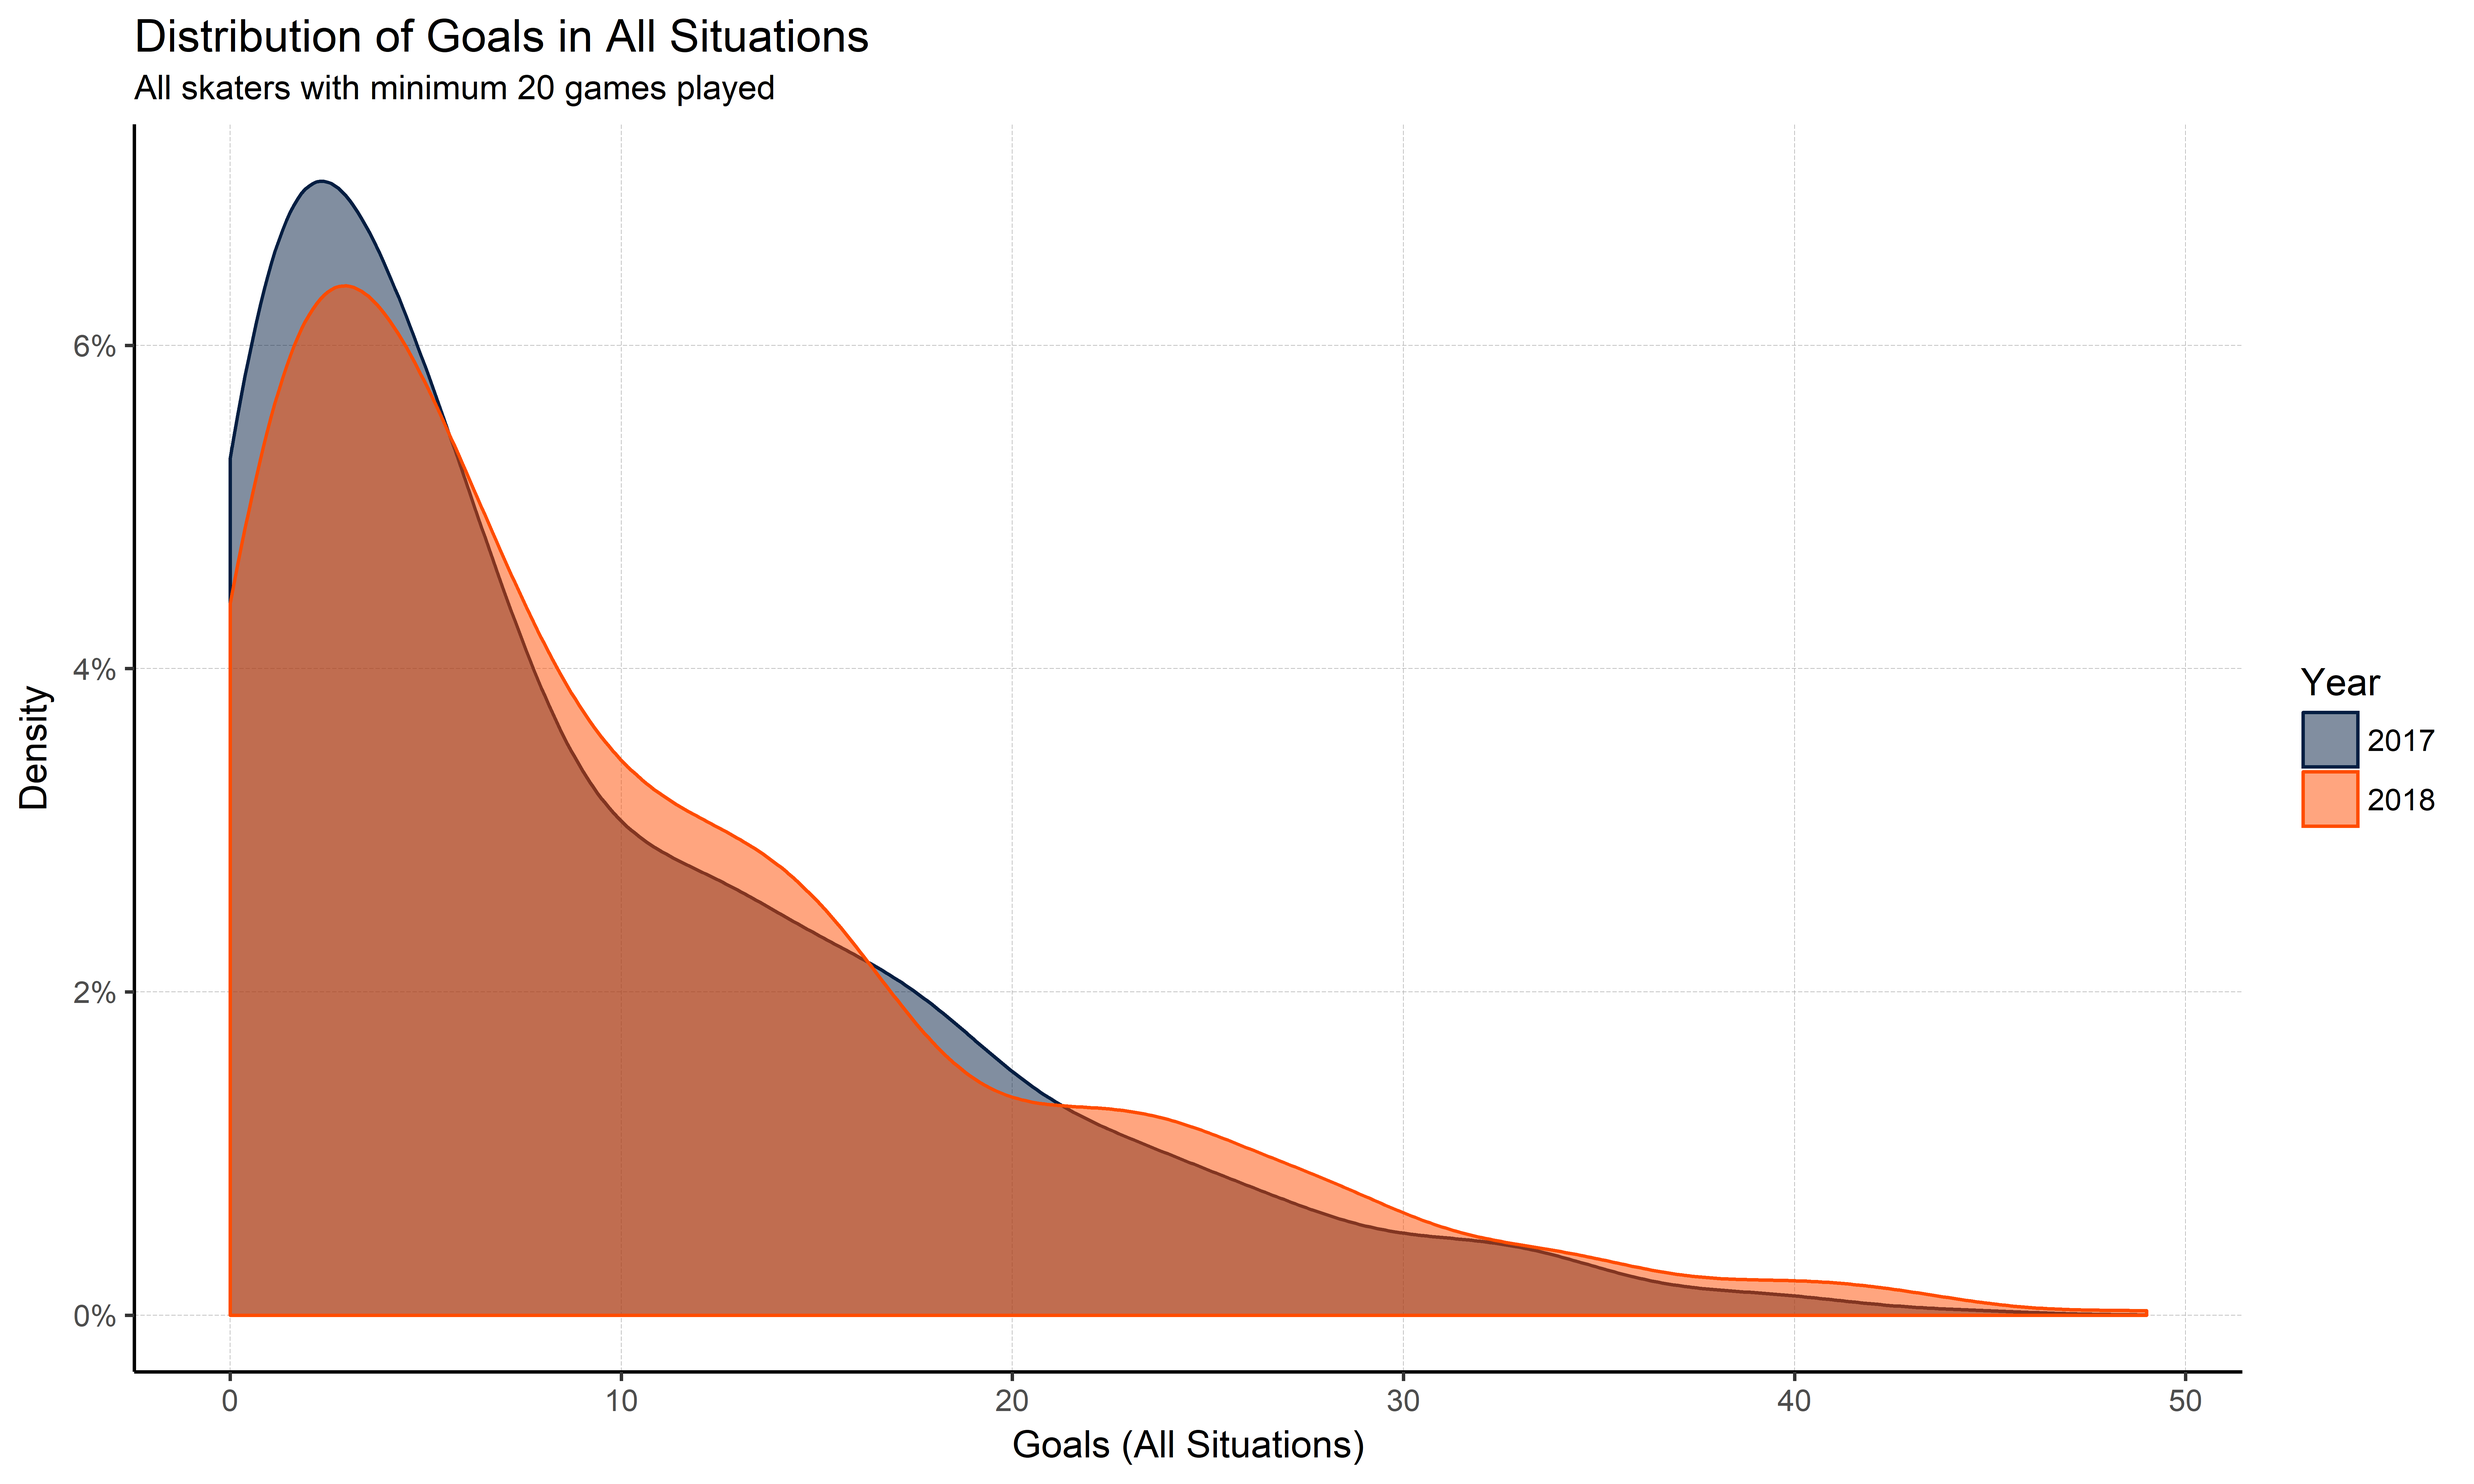
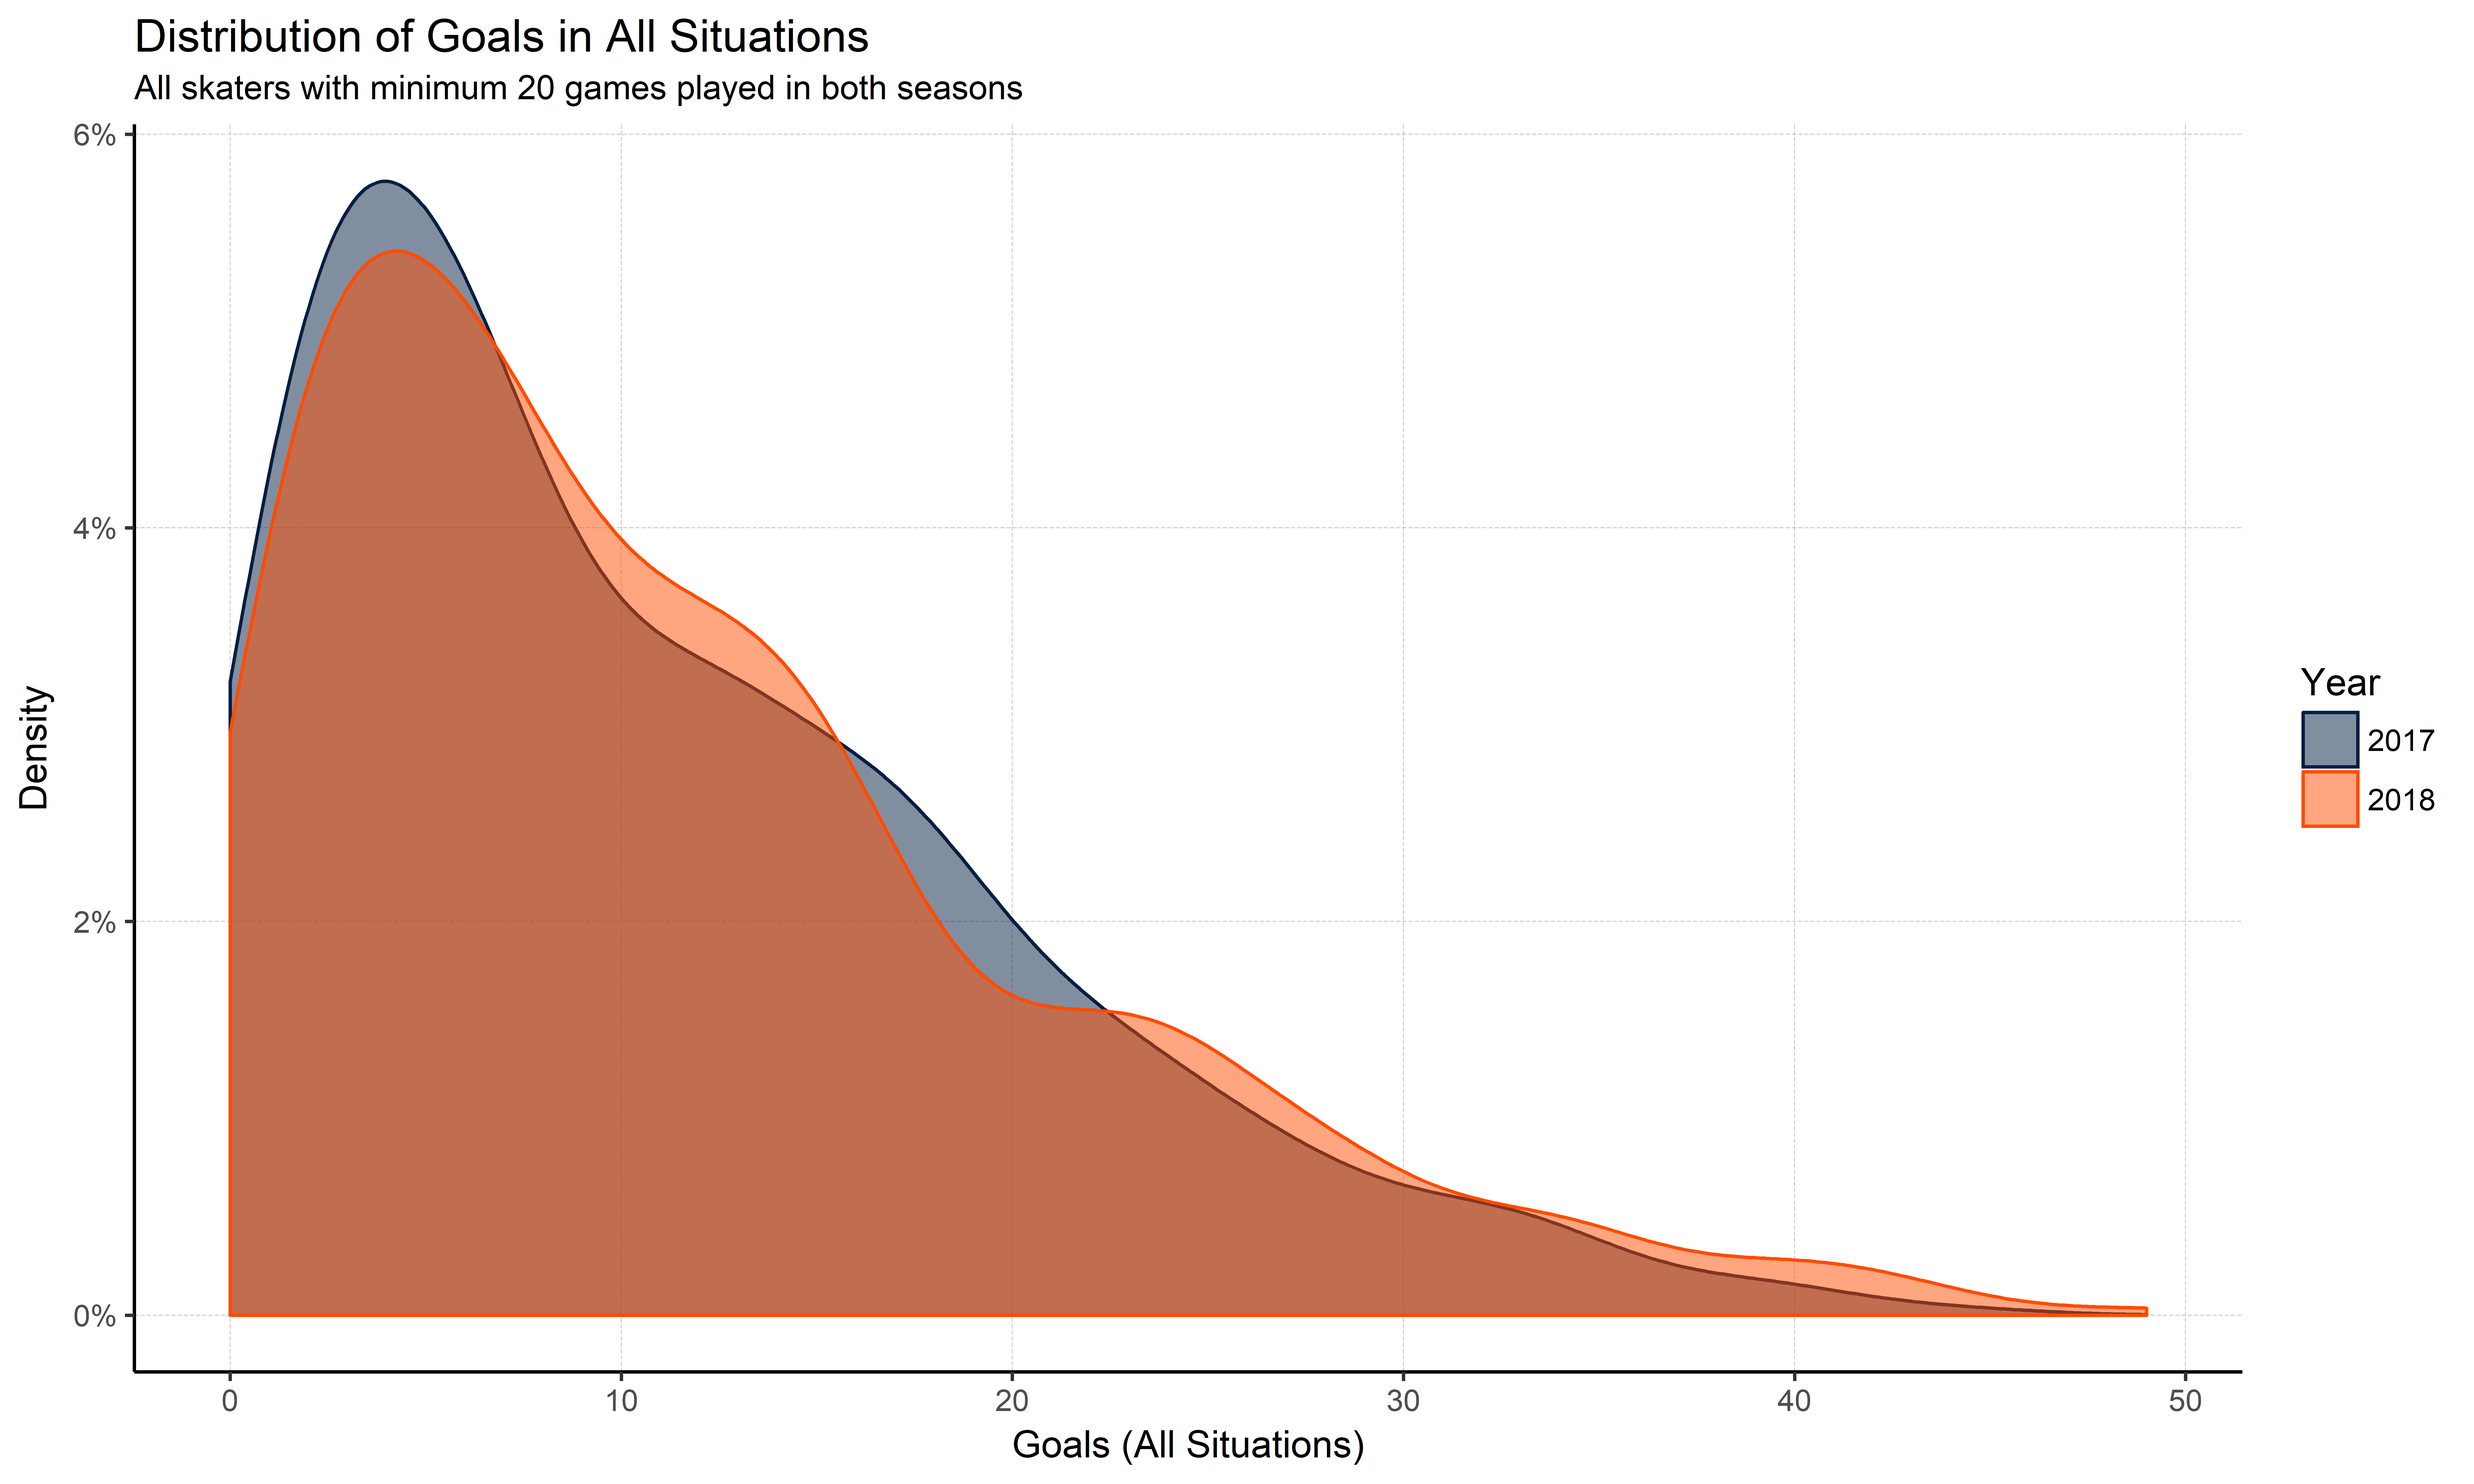
Added CNAME and draft of Increase in Scoring

Changed region(s): [[0.0938, 0.125, 0.875, 0.9062], [0.3438, 0.0312, 0.4062, 0.0625], [0.0312, 0.2188, 0.0625, 0.25]]

diff --git a/_posts/2018-10-01-increase-in-scoring.md b/_posts/2018-10-01-increase-in-scoring.md
@@ -1,0 +1,62 @@
+---
+layout: article
+title: "The Increase in Scoring in the 2017-18 Season"
+author: "KnucklePuck"
+excerpt: "How much did scoring increase in the 2017-18 season and what was the cause?"
+categories: 
+date: 2018-10-01
+modified:
+comments: true
+image:
+  feature:
+  teaser: Seats_300x200.jpg
+  thumb:
+---
+
+## Introduction
+
+Over the past few seasons NHL ownership has made an effort to increase goal scoring. Goalie equipment has changed, referees are calling penalties sooner, and players fly through the center of the ice with their head down. Have these strategies been effective in increasing the average goals scored per game? Are we seeing a decrease in goalie save percentage? Do we see more powerplay goals as a result of strict referees? This article will explore the recent upswing in goals scored in the NHL and will identify hypotheses for what caused in the increase.
+
+## Historical Summary of Goals
+
+The graph below shows the historical trend of the average goals per game in the NHL. The most relevant observation for this article is that yes, the average goals per game increased in 2017-18 when compared to the previous year. However, we are not seeing a very large increase and the increase is nowhere near the average goals per game from the 1980s.
+
+![Historical summary of goals](/images/2018-10-01-increase-in-scoring/HistoricalGoals.png)<!-- -->
+
+## Probability Distribution of Goals - All Situations
+
+The graph below shows us the distribution of goals in the two most recent NHL seasons, 2016-17 and 2017-18 (for those with a statistics background, these are the probability density functions for each year). The graph is showing us the amount of players in the NHL at each amount of goals scored. For example, if you are an NHL player, the probability that you would score exactly 10 goals is about 3.8% in the 2016-17 seasons and about 4% in the 2017-18 season. 
+
+With this graph we can some differences in the goals scored between the two seasons. There were fewer skaters that finished the season with less than 6 goals, or beweteen 16 and 22 goals. Based on this graph we can hypothesize that, on average, skaters were increasing their goals totals last year. One possible scenario is that the group that would have been in the range 0 - 6 goals have moved into a range of greater than 6 goals, and those skaters that were flirting with 20 goals have now crossed that plateau. 
+
+![Distribution of goals in all situations](/images/2018-10-01-increase-in-scoring/GoalDensity_AllSituations.png)<!-- -->
+
+## Goals - Split by even strength and powerplay
+
+As we dive deeper into uncovering where these extra goals are coming from we will look at similar graphs for both even strength and powerplay situations. The two graphs below tell us one important thing: the overall increase in goals is from a combination of both powerplay and even strength goals. This helps us eliminate the possibility that maybe referees are calling more penalties which could lead to an increase in powerplay opportunities and powerplay goals. More likely scenarios are that either goalies were reduced in their save percentage (i.e. by a change to their equipment) and/or skaters are increasing their shot totals or shooting percentage (i.e. more talented skaters). 
+
+<figure class="half">
+	<a href="Distribution of goals even strength"><img src="/images/2018-10-01-increase-in-scoring/GoalDensity_EvenStrength.png"></a>
+	<a href="Distribution of goals on the powerplay"><img src="/images/2018-10-01-increase-in-scoring/GoalDensity_PowerPlay.png"></a>
+	<figcaption>Probability distribution of goals.</figcaption>
+</figure>
+
+## Shots Taken and Shooting Percentage
+
+The graph below on the left shows us the distribution of shots taken by skaters who played at least 20 games in each of the past two seasons. We can see that there were fewer skaters that took less than 175 shots and more skaters that took more than 175 shots. The graph below on the right shows us the distribution of shooting percentage for the same population of NHL skaters. By definition an increase in goals would be caused by either an increase in shots, an increase in percentage, or both. We see that there is an increase in shots and a decrease in the shooting percentage. 
+
+<figure class="half">
+	<a href="Distribution of shots"><img src="/images/2018-10-01-increase-in-scoring/Shots_AllSituations.png"></a>
+	<a href="Distribution of shooting percentage"><img src="/images/2018-10-01-increase-in-scoring/ShootingPercentage_AllSituations.png"></a>
+	<figcaption>Probability distribution of shots and shooting percentage.</figcaption>
+</figure>
+
+## Conclusion
+
+In the introduction we noted that the NHL has attempted to steer the league towards higher goal totals by changing goalie equipment and having referees call penalties faster. If the goalie equipment were having a significant impact then we probably would have seen an increase in player shooting percentage. It's likely that this has had a minimal impact, if any. It's difficult to determine whether the change in referee behaviour had a significant impact. On the one hand we are not seeing a drastic increase in powerplay goals, but if players in the defensive zone are not playing as physical it could be leading to more shot opportunities and goals. 
+
+There are countless factors that impact the score of a hockey game. All stratgies implemented by the NHL will have some kind of impact on the average goals that are scored and it is difficult to quantify the exact impact. The analysis becomes more difficult when you consider than the level of talent in the NHL appears to be continuously increasing, and the increase in scoring could be simply due to players become bigger, faster, and stronger.
+
+
+
+

diff --git a/_posts/2018-09-22-outliers-revisit.md b/_posts/2018-09-22-outliers-revisit.md
@@ -9,7 +9,7 @@ modified:
 comments: true
 image:
   feature:
-  teaser: Baby_300x200.jpg
+  teaser: Calendar_300x200.jpg
   thumb:
 ---
 
